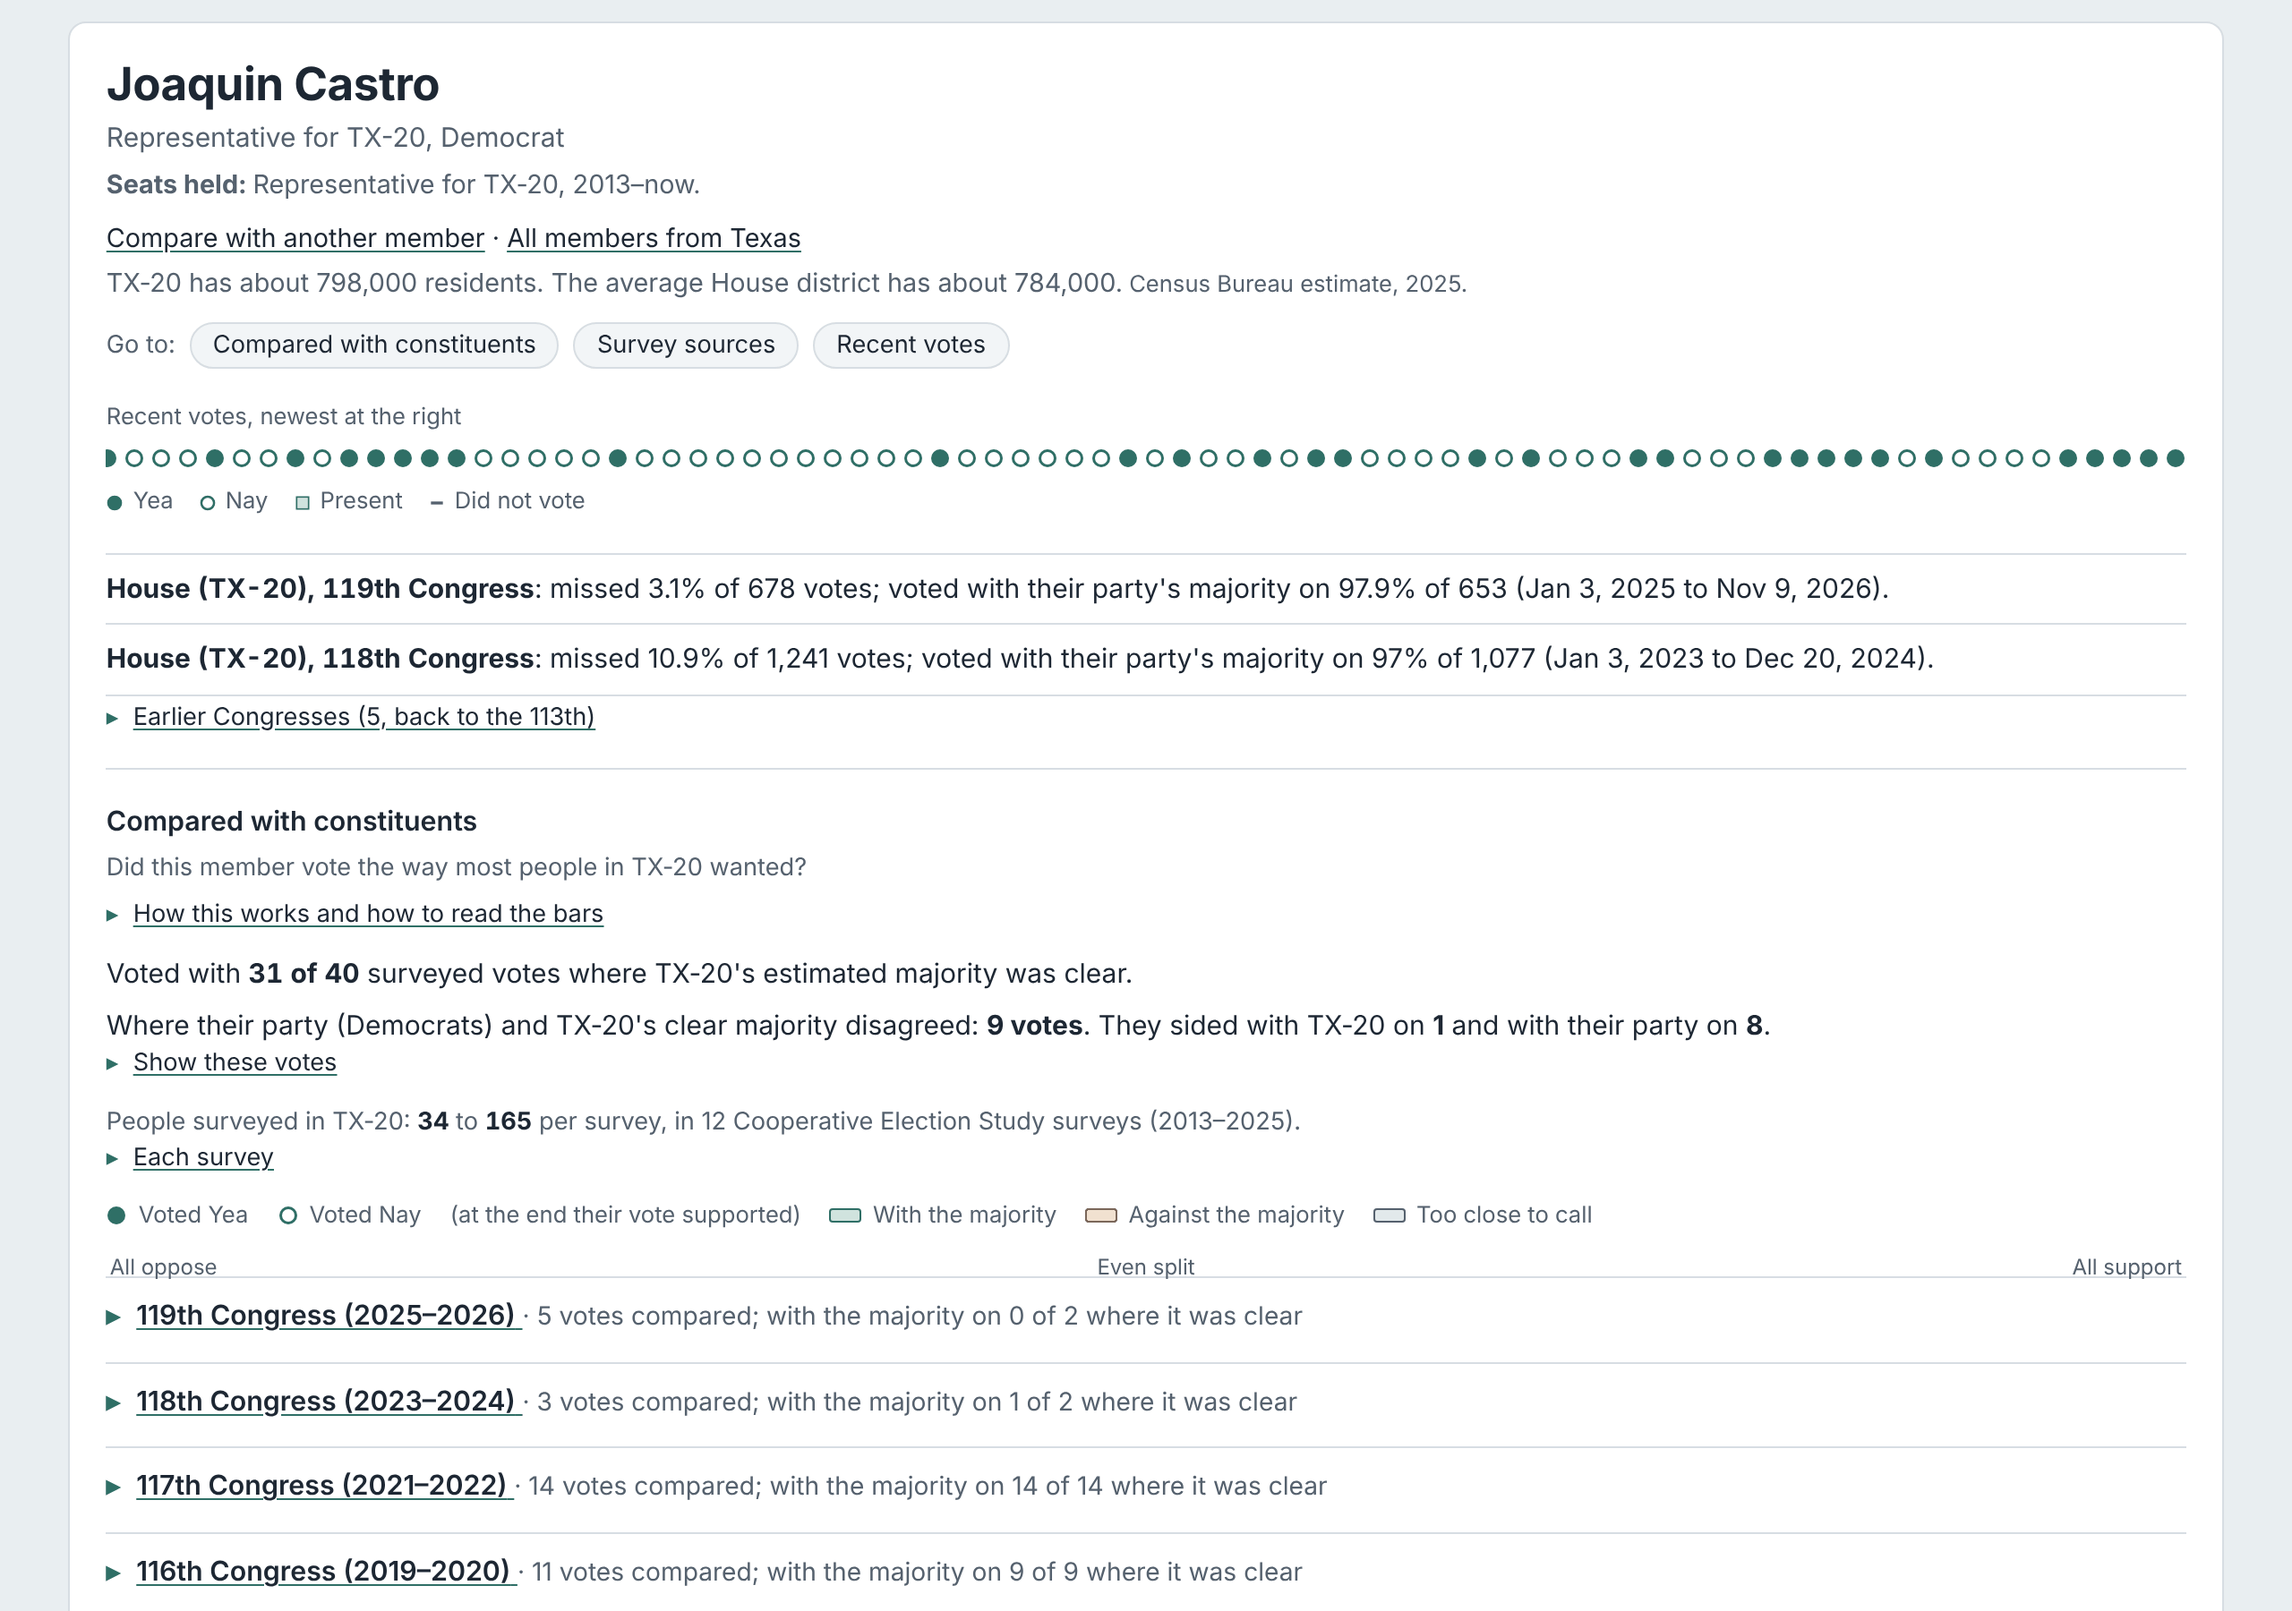
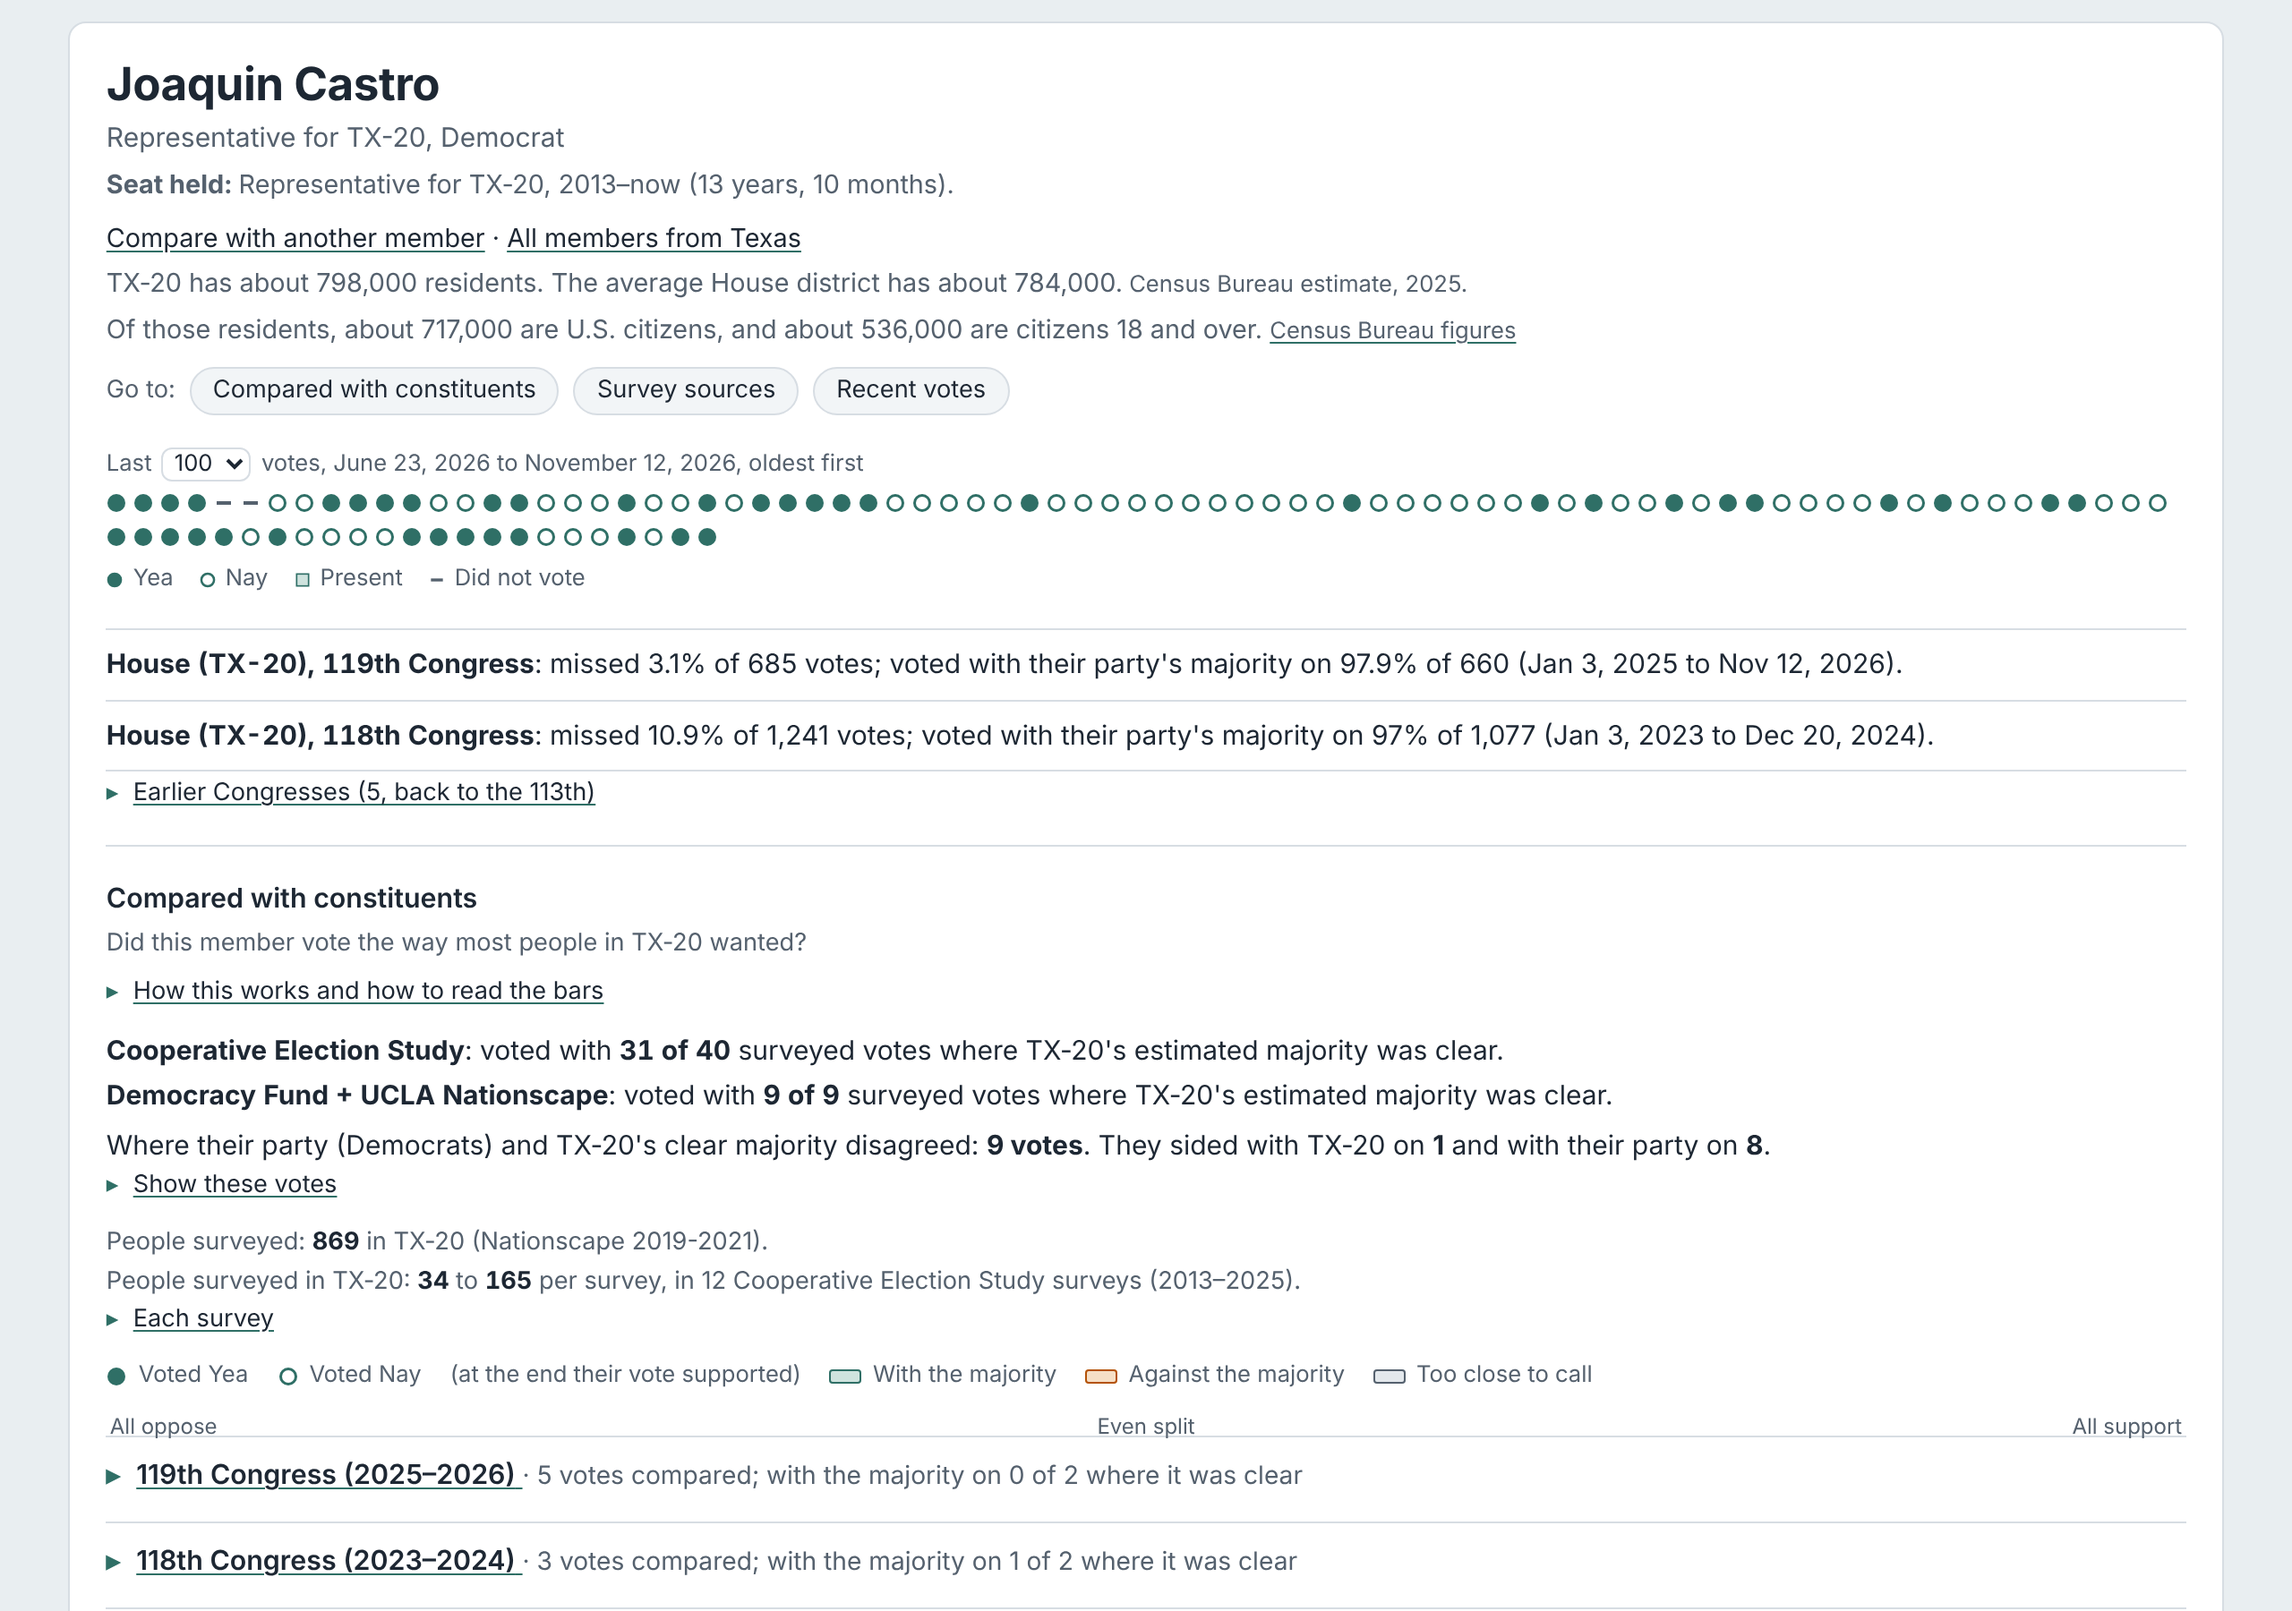
Features: retake all screenshots from Nov 16 data; numbers table fits a laptop screen; Census link styled
Claude-Session: https://claude.ai/code/session_01Y9MjZ2ZaDEoxAbJRGUVhoU

diff --git a/site/pages/features.html b/site/pages/features.html
@@ -156,7 +156,7 @@ main_class: features-page
   </div>
   <figure class="shot">
     <a href="features/numbers.png" title="Open full size"><picture><source media="(max-width: 760px)" srcset="features/numbers-mobile.png" width="390" height="844">
-      <img src="features/numbers.png" alt="The Members by the numbers table for the House, sorted by time in Congress, with votes cast, votes missed, Yea, Nay and with-their-party columns" loading="lazy" width="1280" height="900"></picture></a>
+      <img src="features/numbers.png" alt="The Members by the numbers table for the House, sorted by time in Congress, with votes cast, votes missed, Yea, Nay, with-their-party, residents and citizens-18-and-over columns" loading="lazy" width="1280" height="900"></picture></a>
     <figcaption>The House in the 119th Congress, longest-serving first.</figcaption>
   </figure>
 </article>

diff --git a/site/pages/numbers.html b/site/pages/numbers.html
@@ -17,6 +17,9 @@ head: |
     .num-table td.nw { white-space: nowrap; }
     .num-table td.rank { color: var(--ink-soft); font-variant-numeric: tabular-nums; }
     .num-table .sub { display: block; font-size: 0.8rem; color: var(--ink-soft); }
+    /* Let the small second lines and long headings wrap, so the whole table fits a laptop screen. */
+    .num-table td.n .sub { white-space: normal; }
+    .num-table th.n { white-space: normal; }
     .table-scroll { overflow-x: auto; }
     .count-line { font-size: 0.9rem; color: var(--ink-soft); margin: 0 0 8px; }
     /* On phones, each member becomes a small card with its labels. */

diff --git a/web/cc-member-panel.js b/web/cc-member-panel.js
@@ -200,6 +200,7 @@
     .op-q { margin: 0 0 6px; font-weight: 600; }
     .people { margin: -14px 0 18px; color: var(--ink-soft); font-size: 0.9rem; }
     .people-src { font-size: 0.8rem; }
+    a.people-src { color: var(--ink-soft); text-decoration-color: var(--mark); text-underline-offset: 2px; }
     .history { margin: -14px 0 18px; color: var(--ink-soft); font-size: 0.9rem; }
     .tools { margin: -10px 0 18px; font-size: 0.9rem; }
     .tools a { color: inherit; text-decoration-color: var(--mark); text-underline-offset: 2px; }
